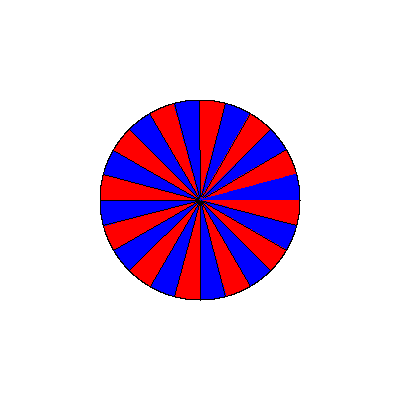
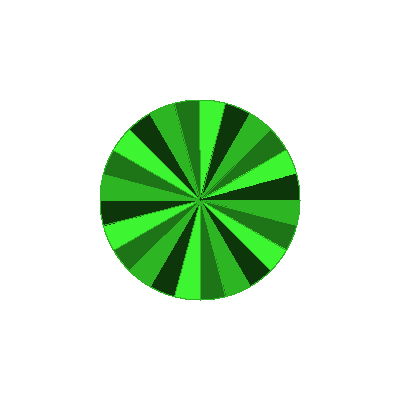
add palette from Adobe color

Changed region(s): [[0.24, 0.24, 0.75, 0.75]]

diff --git a/main.go b/main.go
@@ -9,6 +9,7 @@ import (
 	"os"
 
 	"github.com/kotaoue/timetable/pkg/processing"
+	"github.com/kotaoue/timetable/pkg/processing/palettes"
 )
 
 func main() {
@@ -19,6 +20,8 @@ func main() {
 }
 
 func Main() error {
+	palette := palettes.ShadeGreen
+
 	width := 400
 	height := 400
 	size := int(math.Max(float64(width), float64(height)) / 2)
@@ -29,17 +32,13 @@ func Main() error {
 	prc.Fill(&color.RGBA{255, 255, 255, 255})
 	prc.Rect(0, 0, width, height)
 
-	prc.Stroke(&color.RGBA{0, 0, 0, 255})
+	prc.Stroke(&palette[0])
 	prc.Circle((width / 2), (height / 2), size)
 
 	hours := 24
 	ang := 360 / hours
 	for i := 0; i < hours; i++ {
-		if i%2 == 0 {
-			prc.Fill(&color.RGBA{255, 0, 0, 255})
-		} else {
-			prc.Fill(&color.RGBA{0, 0, 255, 255})
-		}
+		prc.Fill(&palette[i%4])
 
 		fmt.Printf("i:%d start:%g end:%g\n", i, float64(i*ang), float64((i+1)*ang))
 		prc.Pie((width / 2), (height / 2), size, float64(i*ang), float64((i+1)*ang))

diff --git a/pkg/processing/palettes/palettes.go b/pkg/processing/palettes/palettes.go
@@ -1,0 +1,11 @@
+package palettes
+
+import "image/color"
+
+var ShadeGreen [5]color.RGBA = [5]color.RGBA{
+	{46, 181, 36, 255},
+	{30, 117, 23, 255},
+	{61, 245, 49, 255},
+	{14, 54, 11, 255},
+	{56, 44, 86, 255},
+}

diff --git a/README.md b/README.md
@@ -1,2 +1,6 @@
 # timetable
 Create daily pie chart image.
+
+
+## References
+* [Adobe Color](https://color.adobe.com/ja/create/color-wheel)
